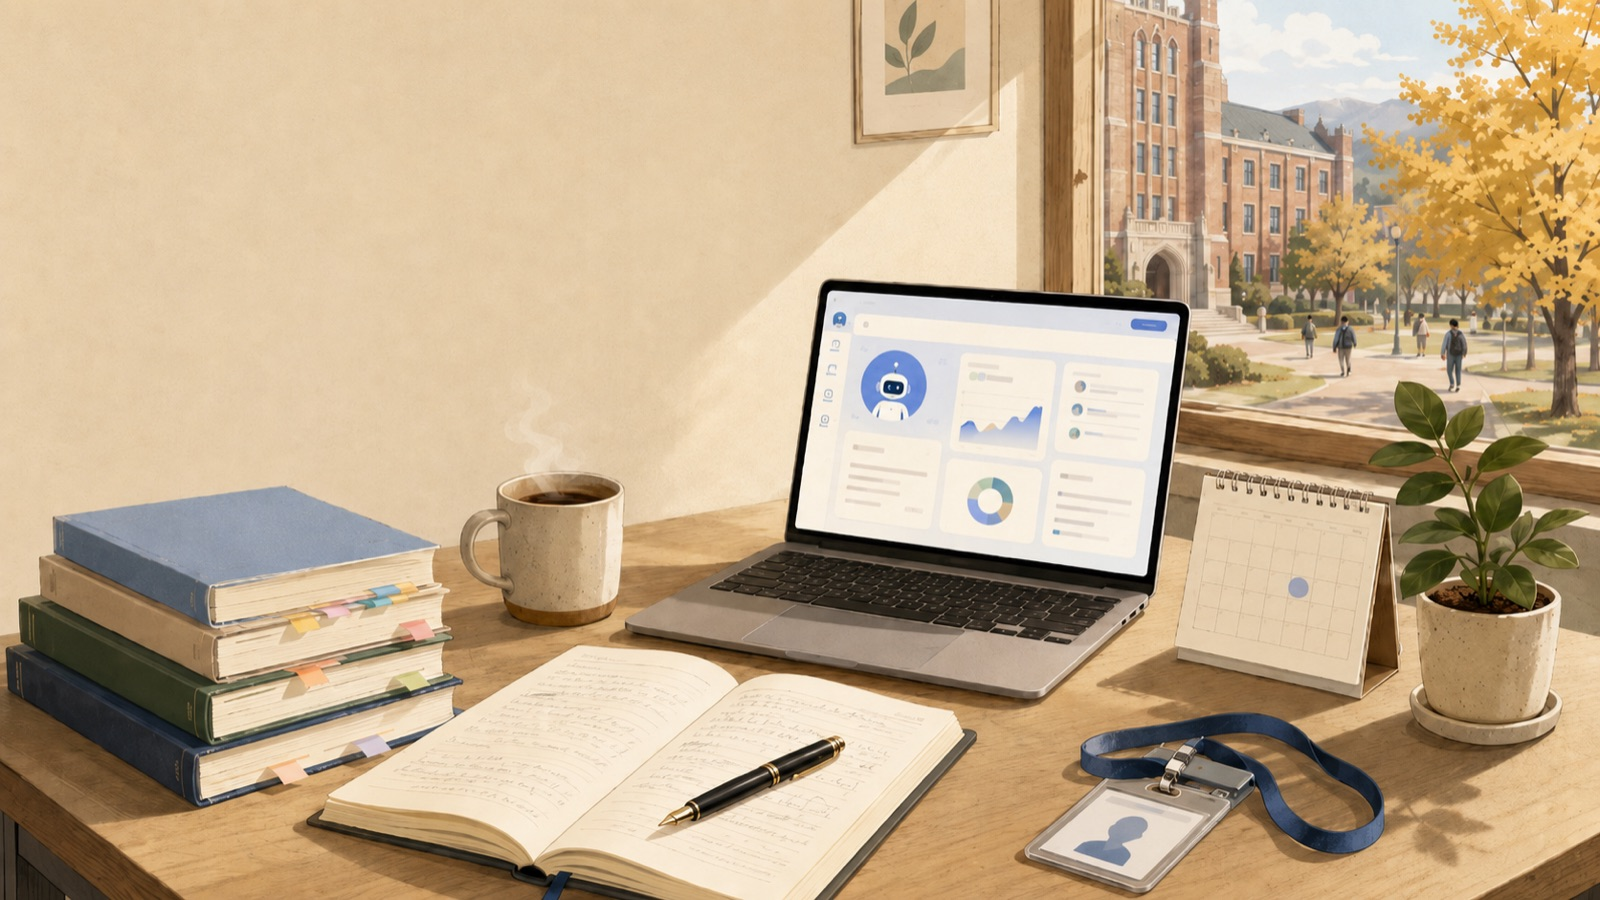
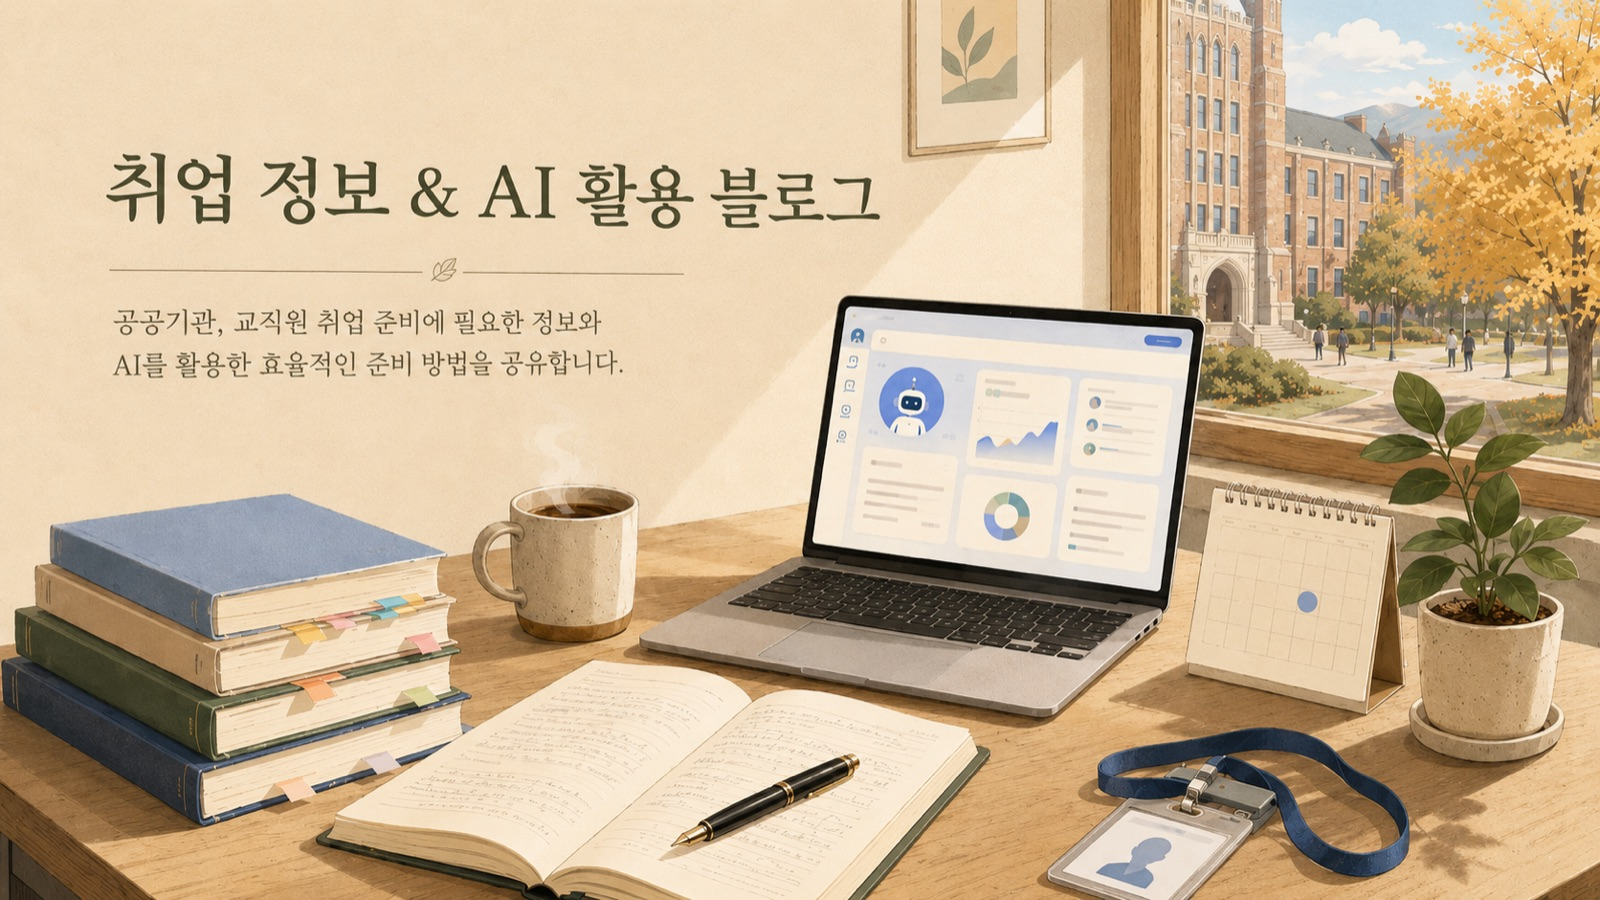
Use text-embedded hero image, hide redundant page heading
The new hero illustration includes the title and tagline visually, so
the on-page heading and description are now redundant. They are kept as
sr-only for SEO and screen readers but removed from the visible layout.
The image container is constrained to max-w-4xl with a 16:9 aspect so
it doesn't dominate the viewport and the post grid below remains
visible above the fold.

diff --git a/src/app/page.tsx b/src/app/page.tsx
@@ -21,28 +21,25 @@ export default async function Home() {
     <div className="max-w-6xl mx-auto px-4 py-8">
       {/* 히어로 섹션 */}
       <section className="mb-12">
-        <div className="text-center mb-8">
-          <h1 className="text-3xl md:text-4xl font-bold text-gray-900 mb-4">
-            취업 정보 & AI 활용 블로그
-          </h1>
-          <p className="text-gray-600 text-lg max-w-3xl mx-auto break-keep">
-            공공기관, 교직원 취업 준비에 필요한 정보와 AI를 활용한 효율적인 준비 방법을 공유합니다.
-          </p>
-        </div>
+        {/* SEO·접근성용 헤딩 (이미지에 시각적 텍스트 포함) */}
+        <h1 className="sr-only">취업 정보 & AI 활용 블로그</h1>
+        <p className="sr-only">
+          공공기관, 교직원 취업 준비에 필요한 정보와 AI를 활용한 효율적인 준비 방법을 공유합니다.
+        </p>
 
         {/* 히어로 배너 - 교직원 취업 준비 카테고리로 연결 */}
         <Link
           href="/category/edu-career"
           aria-label="대학교 교직원 취업 준비 카테고리 보기"
-          className="block group rounded-xl overflow-hidden shadow-md hover:shadow-xl transition-shadow duration-300"
+          className="block group max-w-4xl mx-auto rounded-xl overflow-hidden shadow-md hover:shadow-xl transition-shadow duration-300"
         >
-          <div className="relative h-80 md:h-96">
+          <div className="relative aspect-[16/9]">
             <Image
               src="/images/hero-main.jpg"
-              alt="대학교 교직원 취업 준비 — 다루하루TV"
+              alt="취업 정보 & AI 활용 블로그 — 공공기관, 교직원 취업 준비에 필요한 정보와 AI를 활용한 효율적인 준비 방법을 공유합니다."
               fill
               priority
-              sizes="(max-width: 768px) 100vw, (max-width: 1280px) 80vw, 1200px"
+              sizes="(max-width: 768px) 100vw, (max-width: 1024px) 80vw, 896px"
               className="object-cover group-hover:scale-[1.02] transition-transform duration-500"
             />
           </div>
